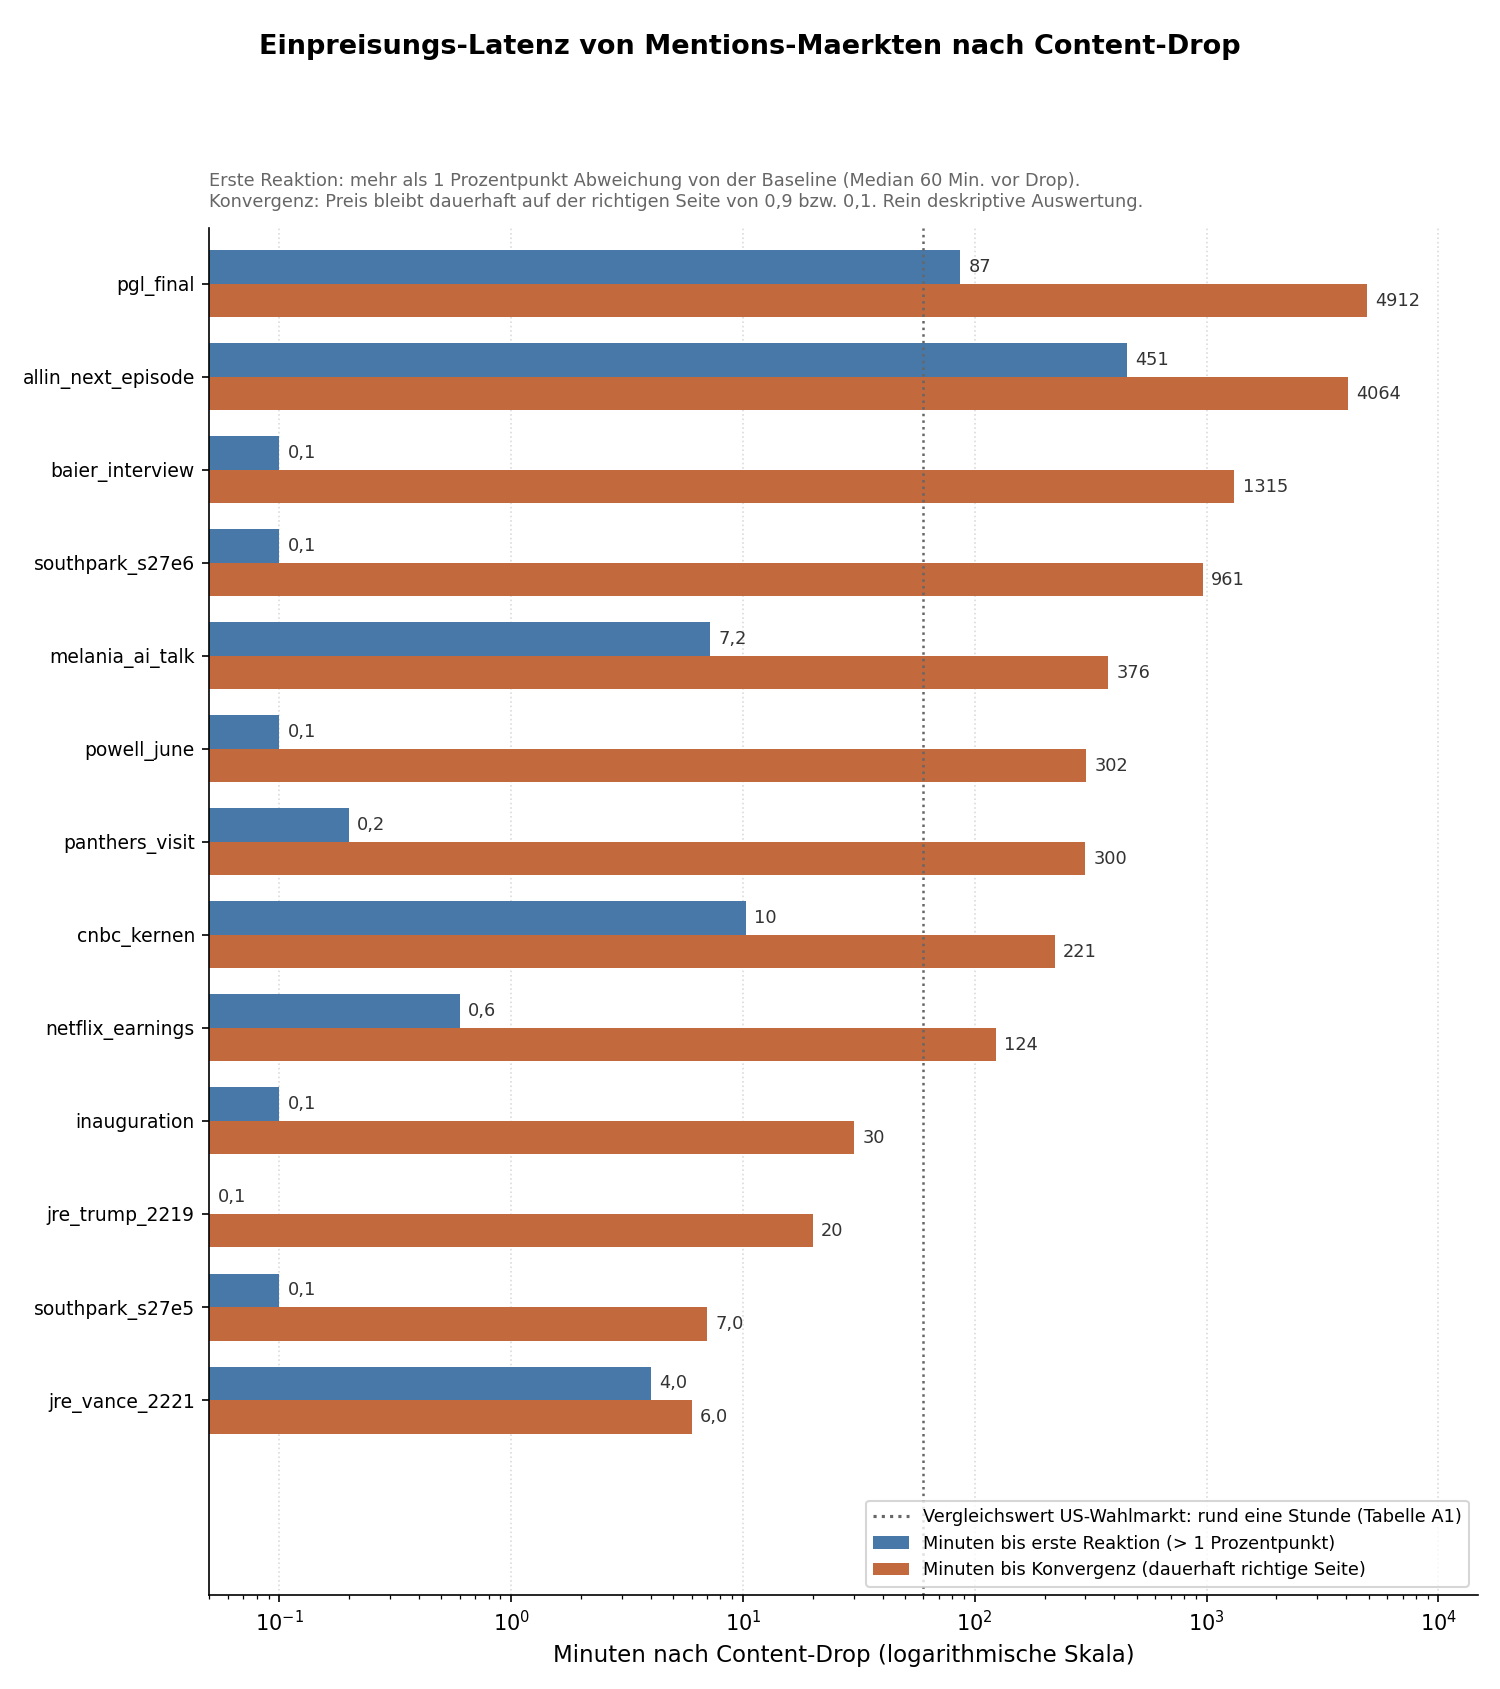
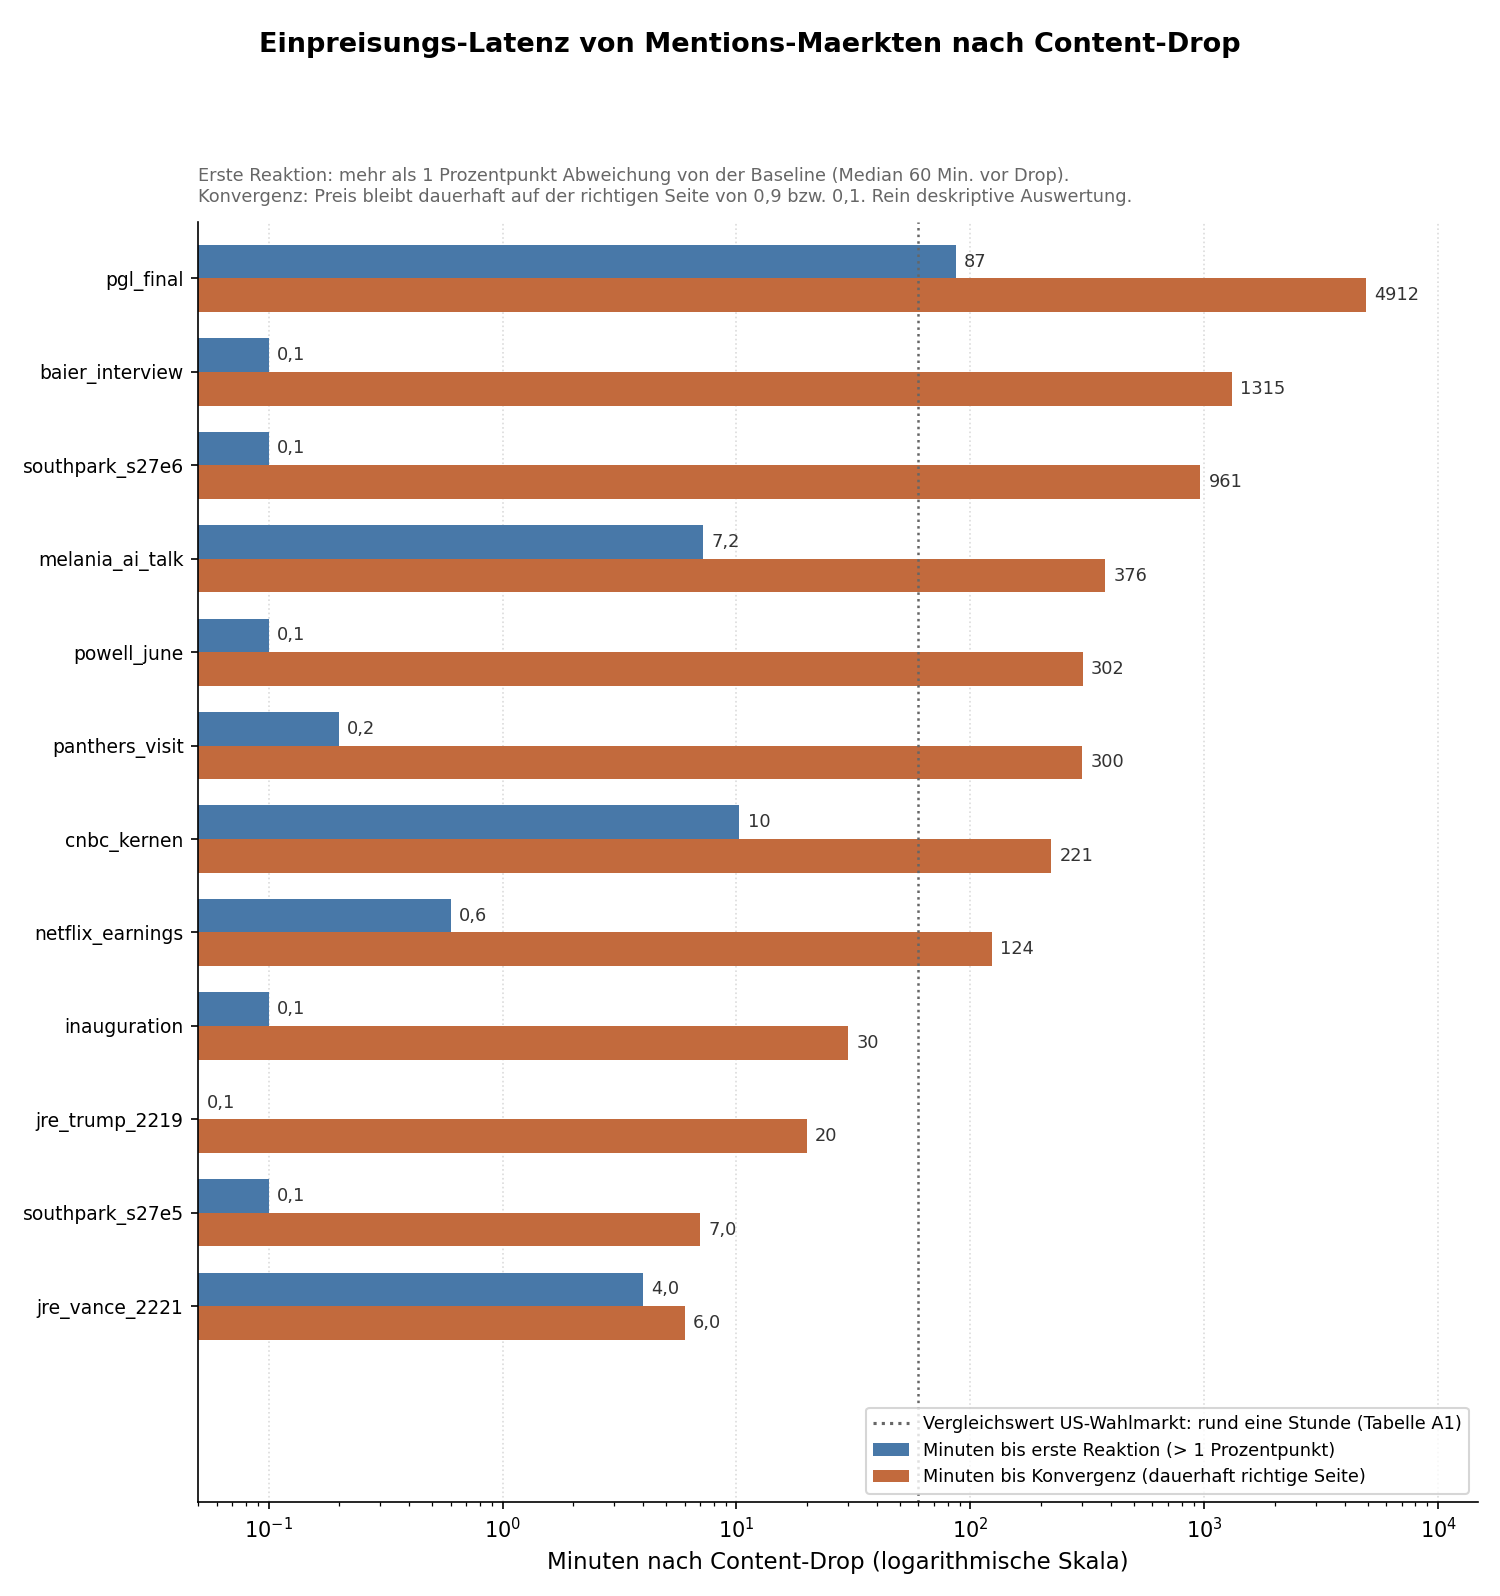
fix: exclude allin_next_episode from latency statistics and figure
The market ran on 'next episode' without an episode number; YES was
already at 0.911 at drop and the later decline to 0.399 reflected
mapping and resolution uncertainty, not processing latency. Seed row
kept with new ausschluss column, status
ausgeschlossen_zuordnungsambiguitaet in the results CSV, reasoning in
seed hinweis and metadata limitations; removed from PNG and metrics.

Changed region(s): [[0.0307, 0.0921, 0.9507, 0.8596], [0.1227, 0.8596, 0.9813, 1.0]]

diff --git a/operations/analysis/mentions_latency.py b/operations/analysis/mentions_latency.py
@@ -311,6 +311,28 @@ def berechne_ergebnisse(
     """Berechnet die Latenz-Kennzahlen fuer alle Seed-Maerkte."""
     ergebnisse = []
     for z in seed:
+        ausschluss = z.get("ausschluss", "").strip()
+        if ausschluss:
+            ergebnisse.append(
+                {
+                    "event": z["event"],
+                    "condition_id": z["condition_id"],
+                    "clob_token_id": z["clob_token_id"],
+                    "drop_ts_utc": z["drop_ts_utc"],
+                    "korrekt_aufgeloestes_outcome": z["korrekt_aufgeloestes_outcome"],
+                    "n_punkte": None,
+                    "n_punkte_baseline": None,
+                    "baseline_preis": None,
+                    "erste_reaktion_epoch": None,
+                    "minuten_bis_erste_reaktion": None,
+                    "konvergenz_epoch": None,
+                    "minuten_bis_konvergenz": None,
+                    "stunden_im_handelbaren_fenster": None,
+                    "endpreis": None,
+                    "status": f"ausgeschlossen_{ausschluss}",
+                }
+            )
+            continue
         drop_epoch = parse_ts_utc(z["drop_ts_utc"])
         ende = (
             parse_ts_utc(z["aufloesung_ts_utc"])
@@ -366,6 +388,14 @@ def schreibe_metadata(ergebnisse: list[dict], seed: list[dict], pfad: Path) -> N
         ),
         "seed_datei": "data/events/mentions_latency_seed.csv",
         "n_maerkte": len(ergebnisse),
+        "n_ausgewertet": len(
+            [r for r in ergebnisse if not r["status"].startswith("ausgeschlossen_")]
+        ),
+        "ausgeschlossene_events": [
+            {"event": r["event"], "status": r["status"]}
+            for r in ergebnisse
+            if r["status"].startswith("ausgeschlossen_")
+        ],
         "parameter": {
             "baseline_fenster_minuten": BASELINE_FENSTER_S // 60,
             "reaktions_schwelle_prozentpunkte": REAKTIONS_SCHWELLE * 100,
@@ -389,6 +419,13 @@ def schreibe_metadata(ergebnisse: list[dict], seed: list[dict], pfad: Path) -> N
             "Beobachtungsraster-Ebene.",
             "Kleine kuratierte Stichprobe, keine Zufallsauswahl; Maerkte ohne "
             "punktfoermigen Content-Drop (Mehrtagesfenster) wurden ausgeschlossen.",
+            "Seed-Zeilen mit gesetzter Spalte ausschluss erhalten nur eine "
+            "Statuszeile ohne Kennzahlen und erscheinen nicht in Abbildung oder "
+            "Auswertung. Aktuell betrifft das allin_next_episode: Serie auf die "
+            "naechste Episode ohne Episodennummer, YES stand beim Drop bereits "
+            "bei 0.911; der spaetere Rueckgang bis 0.399 (16.02.2026 15:23 UTC) "
+            "war Zuordnungs- und Aufloesungsunsicherheit, keine "
+            "Verarbeitungslatenz.",
             "Rein deskriptiv: keine Handels-, Strategie- oder "
             "Profitabilitaetsaussagen; keine Kausalaussagen.",
         ],

diff --git a/tests/test_mentions_latency.py b/tests/test_mentions_latency.py
@@ -211,6 +211,19 @@ def test_parse_ts_utc() -> None:
         ml.parse_ts_utc("1970-01-01T00:00:00")
 
 
+def test_berechne_ergebnisse_ausschluss_ohne_fetch() -> None:
+    """Zeilen mit gesetzter Spalte ausschluss brauchen keinen Datenabruf
+    und liefern nur eine Statuszeile ohne Kennzahlen."""
+    seed = [{**SEED_ZEILE, "ausschluss": "zuordnungsambiguitaet"}]
+    ergebnisse = ml.berechne_ergebnisse(seed, fetch=None)
+    r = ergebnisse[0]
+    assert r["status"] == "ausgeschlossen_zuordnungsambiguitaet"
+    assert r["minuten_bis_erste_reaktion"] is None
+    assert r["minuten_bis_konvergenz"] is None
+    assert r["stunden_im_handelbaren_fenster"] is None
+    assert r["event"] == "test_event"
+
+
 # ------------------------------------------------------------ Pipeline mit Fake-Fetch
 
 
